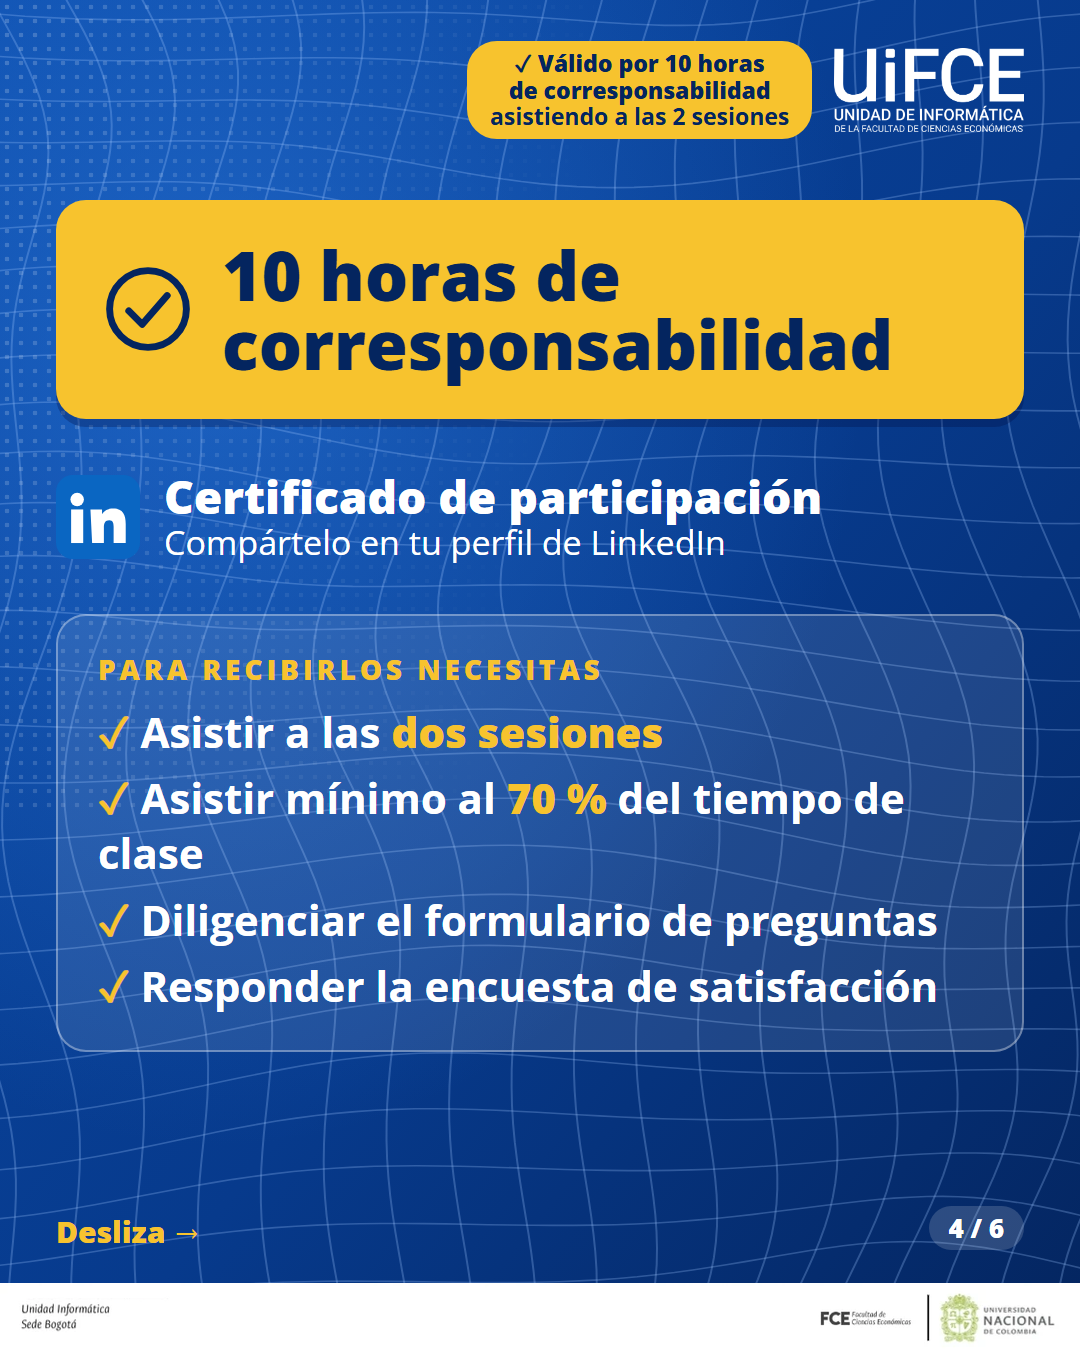
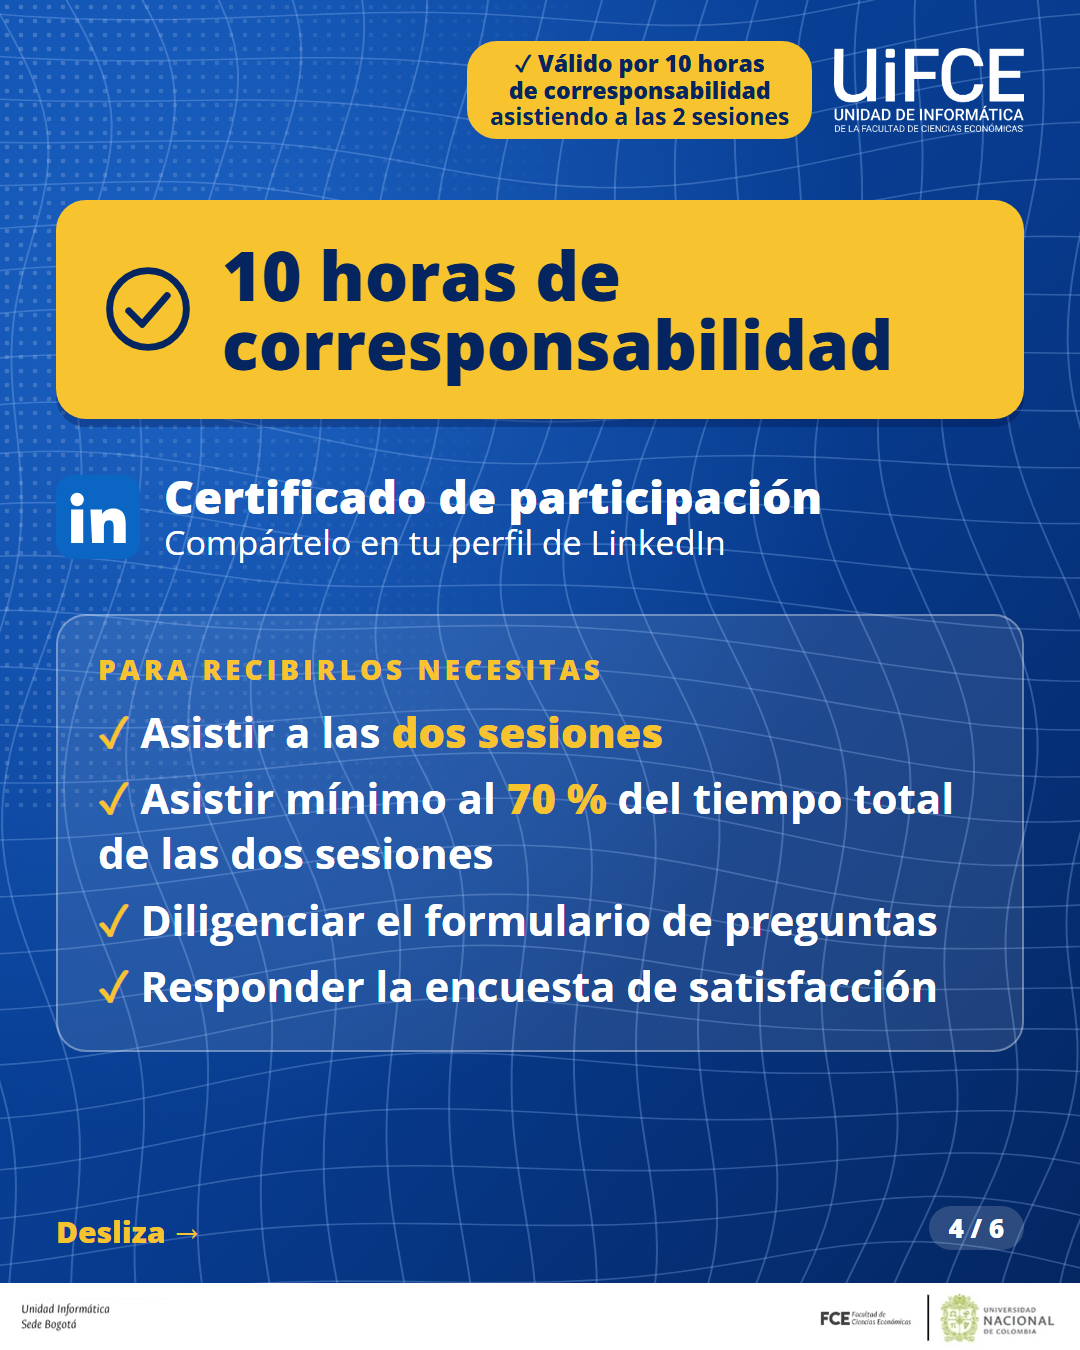
P4: aclara 70 % del tiempo total de las dos sesiones en ig-04 y tv-03

Changed region(s): [[0.0917, 0.6222, 0.4583, 0.6533], [0.7944, 0.56, 0.8861, 0.6222]]

diff --git a/propuesta-4/extras/tv-03.html b/propuesta-4/extras/tv-03.html
@@ -22,7 +22,7 @@ body{position:relative;overflow:hidden;background:#073a8c;font-family:var(--font
 <div class="z card" style="left:56px;top:470px;width:1250px;padding:40px 52px"><div class="k" style="font-size:36px">Para recibirlos necesitas</div>
 <ul style="list-style:none;font-size:48px;font-weight:700;line-height:1.3;margin-top:16px">
 <li style="margin-top:14px"><span class="gold">✓</span> Asistir a las <b class="gold">dos sesiones</b></li>
-<li style="margin-top:14px"><span class="gold">✓</span> Asistir mínimo al <b class="gold">70 %</b> del tiempo de clase</li>
+<li style="margin-top:14px"><span class="gold">✓</span> Asistir mínimo al <b class="gold">70 %</b> del tiempo total de las dos sesiones</li>
 <li style="margin-top:14px"><span class="gold">✓</span> Diligenciar el formulario de preguntas</li>
 <li style="margin-top:14px"><span class="gold">✓</span> Responder la encuesta de satisfacción</li></ul></div>
 <div class="z" style="left:1380px;top:480px;width:490px;display:flex;align-items:center;gap:20px"><svg width="96" height="96" viewBox="0 0 50 50" style="flex:none"><rect width="50" height="50" rx="10" fill="#0A66C2"/><circle cx="12.6" cy="14.6" r="4" fill="#fff"/><rect x="9" y="20.5" width="7.2" height="20" fill="#fff"/><path d="M20.5 20.5h6.9v2.9c1.2-2 3.4-3.4 6.6-3.4 6 0 7.5 3.9 7.5 9.2v11.3h-7.2V30.8c0-2.2-.4-3.9-2.6-3.9-2.4 0-3.2 1.7-3.2 4.2v9.4h-7z" fill="#fff"/></svg><b style="font-size:32px;line-height:1.15">Certificado para compartir en LinkedIn</b></div><div class="z qrb" style="right:48px;bottom:48px;border-radius:30px;padding:22px 26px 26px;flex-direction:column;gap:14px"><b style="font-size:34px;text-align:center">Inscríbete aquí</b><img src="../assets/qr-uifce.svg" style="width:290px;height:290px" alt="QR de inscripción"></div></body></html>

diff --git a/propuesta-4/extras/ig-04.html b/propuesta-4/extras/ig-04.html
@@ -23,6 +23,6 @@ body{position:relative;overflow:hidden;background:#073a8c;font-family:var(--font
 <div class="card" style="margin-top:50px;padding:36px 40px"><div class="k" style="font-size:28px">Para recibirlos necesitas</div>
 <ul style="list-style:none;margin-top:18px;font-size:42px;font-weight:700;line-height:1.3">
 <li style="margin-top:12px"><span class="gold">✓</span> Asistir a las <b class="gold">dos sesiones</b></li>
-<li style="margin-top:12px"><span class="gold">✓</span> Asistir mínimo al <b class="gold">70 %</b> del tiempo de clase</li>
+<li style="margin-top:12px"><span class="gold">✓</span> Asistir mínimo al <b class="gold">70 %</b> del tiempo total de las dos sesiones</li>
 <li style="margin-top:12px"><span class="gold">✓</span> Diligenciar el formulario de preguntas</li>
 <li style="margin-top:12px"><span class="gold">✓</span> Responder la encuesta de satisfacción</li></ul></div></div><img class="z" src="../assets/footer.png" alt="" style="left:0;bottom:0;width:100%;height:auto"><div class="sw">Desliza →</div><div class="n">4 / 6</div></body></html>
